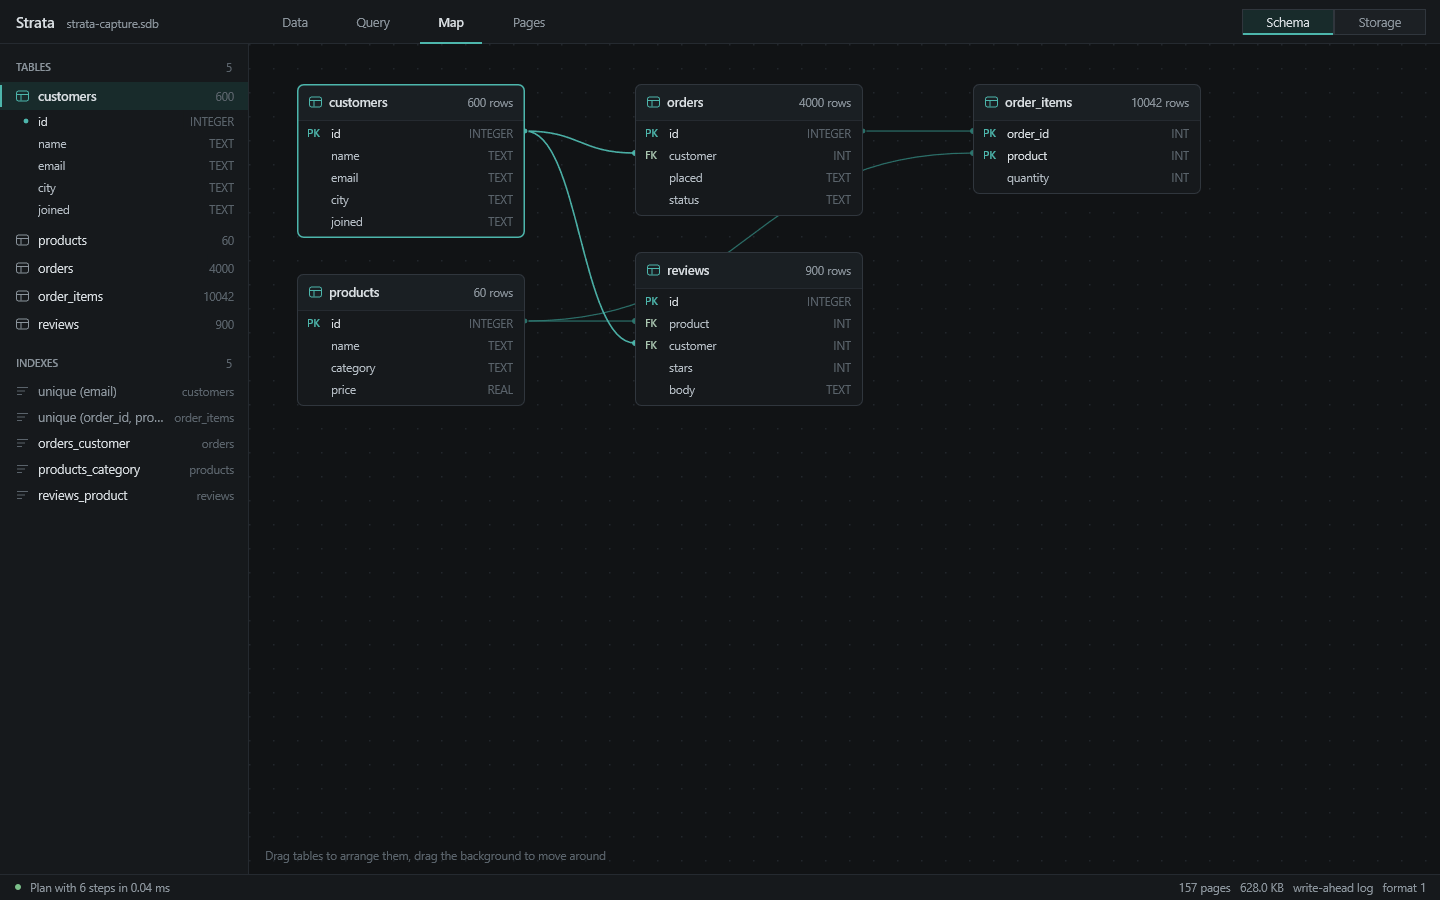
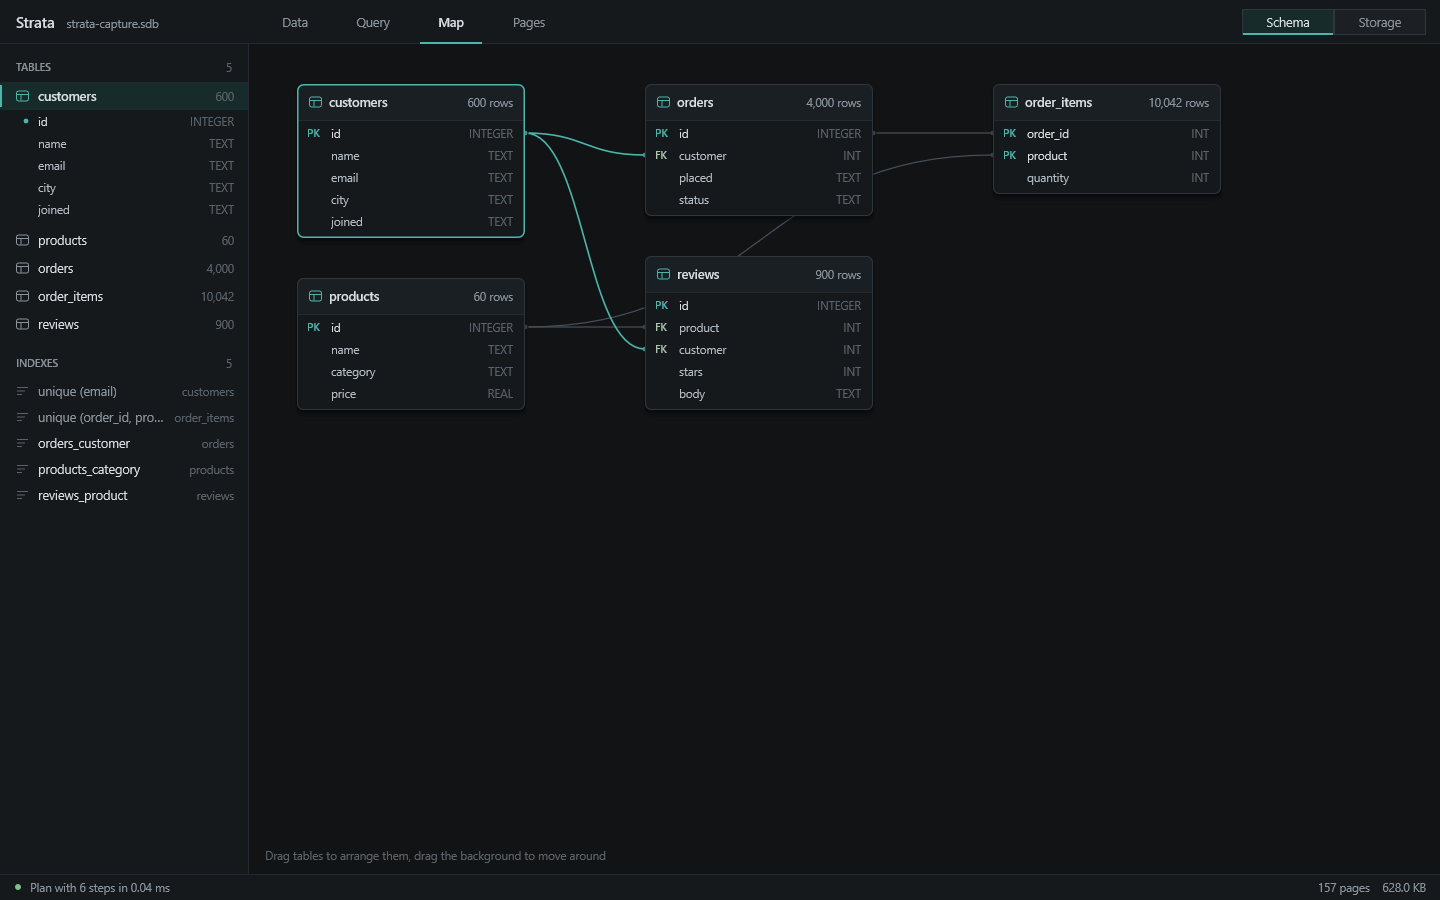
Scripted studio session in capture mode and fixes for stale plans and reloads

diff --git a/src/studio/app/studio.cc b/src/studio/app/studio.cc
@@ -1,6 +1,7 @@
 #include "studio/app/studio.hh"
 #include "sql/print/print.hh"
 #include "base/file/file.hh"
+#include "base/console/console.hh"
 
 #include <windows.h>
 #include <shellapi.h>
@@ -18,6 +19,26 @@ namespace studio {
 			out.decimal ( bytes * 10 / ( 1024 * 1024 ), 10, 1 ).add ( " MB" );
 		else
 			out.decimal ( bytes * 100 / ( 1024ull * 1024 * 1024 ), 100, 2 ).add ( " GB" );
+
+	}
+
+	void grouped ( base::text& out, uint64_t value ) {
+
+		char digits [ 32 ];
+		uint32_t count = 0;
+
+		do {
+
+			if ( count && count % 4 == 3 )
+				digits [ count++ ] = ',';
+
+			digits [ count++ ] = static_cast < char > ( '0' + value % 10 );
+			value /= 10;
+
+		} while ( value );
+
+		while ( count )
+			out.add ( digits [ --count ] );
 
 	}
 
@@ -193,6 +214,18 @@ namespace studio {
 		message.add ( "Opened " ).add ( app.file_name );
 		set_status ( app, message.value ( ), false );
 
+		if ( app.window ) {
+
+			base::text title;
+			wchar_t wide [ FILE_PATH_ROOM ];
+
+			title.add ( app.file_name ).add ( " \xE2\x80\x94 Strata Studio" );
+
+			if ( MultiByteToWideChar ( CP_UTF8, 0, title.value ( ), -1, wide, FILE_PATH_ROOM ) > 0 )
+				SetWindowTextW ( app.window, wide );
+
+		}
+
 		return true;
 
 	}
@@ -248,6 +281,8 @@ namespace studio {
 		sql.add ( body.value ( ), body.size );
 
 		uint32_t version = app.db->schema->version;
+		int64_t changes = app.db->total_changes;
+		bool was_open = app.db->in_transaction;
 		double started = now_ms ( app );
 		bool fine = false;
 
@@ -263,6 +298,10 @@ namespace studio {
 
 			clear_grid ( app.result_grid );
 			app.result_grid.id = id;
+			app.plan.memory.reset ( );
+			app.plan.rows = nullptr;
+			app.plan.count = 0;
+			app.plan.room = 0;
 
 			engine::query_sink sink = { &app.result_grid, grid_columns, grid_row };
 
@@ -339,7 +378,7 @@ namespace studio {
 
 		}
 
-		if ( version != app.db->schema->version || !explain ) {
+		if ( version != app.db->schema->version || changes != app.db->total_changes || app.db->in_transaction || was_open ) {
 
 			int32_t table = app.table;
 
@@ -605,13 +644,7 @@ namespace studio {
 
 	}
 
-	static void render ( studio_state& app ) {
-
-		if ( !ui::begin_frame ( app.draw ) )
-			return;
-
-		draw_frame ( app );
-		ui::end_frame ( app.draw );
+	static void finish_input ( studio_state& app ) {
 
 		input_state& input = app.input;
 
@@ -629,9 +662,22 @@ namespace studio {
 		if ( app.ui.redraw ) {
 
 			app.ui.redraw = false;
-			request_frame ( app );
+
+			if ( app.window )
+				request_frame ( app );
 
 		}
+
+	}
+
+	static void render ( studio_state& app ) {
+
+		if ( !ui::begin_frame ( app.draw ) )
+			return;
+
+		draw_frame ( app );
+		ui::end_frame ( app.draw );
+		finish_input ( app );
 
 	}
 
@@ -803,6 +849,17 @@ namespace studio {
 
 			case WM_ERASEBKGND:
 				return 1;
+
+			case WM_GETMINMAXINFO: {
+
+				MINMAXINFO* limits = reinterpret_cast < MINMAXINFO* > ( lparam );
+
+				limits->ptMinTrackSize.x = static_cast < LONG > ( 980 * scale );
+				limits->ptMinTrackSize.y = static_cast < LONG > ( 620 * scale );
+
+				return 0;
+
+			}
 
 			case WM_DROPFILES: {
 
@@ -1032,11 +1089,7 @@ namespace studio {
 
 			bool fine = ui::capture_frame ( app.draw, STUDIO_CAPTURE_WIDTH, STUDIO_CAPTURE_HEIGHT, path.value ( ), capture_draw, &app );
 
-			app.input.pressed = false;
-			app.input.released = false;
-			app.input.key_count = 0;
-			app.input.char_count = 0;
-			app.input.wheel = 0;
+			finish_input ( app );
 
 			if ( !fine )
 				return false;
@@ -1044,6 +1097,169 @@ namespace studio {
 		}
 
 		return true;
+
+	}
+
+	static void script_frame ( studio_state& app ) {
+
+		ui::capture_frame ( app.draw, STUDIO_CAPTURE_WIDTH, STUDIO_CAPTURE_HEIGHT, nullptr, capture_draw, &app );
+		finish_input ( app );
+
+	}
+
+	static void script_move ( studio_state& app, float x, float y ) {
+
+		app.input.x = x;
+		app.input.y = y;
+		script_frame ( app );
+
+	}
+
+	static void script_press ( studio_state& app, float x, float y ) {
+
+		app.input.x = x;
+		app.input.y = y;
+		app.input.pressed = true;
+		app.input.down = true;
+		script_frame ( app );
+
+	}
+
+	static void script_release ( studio_state& app ) {
+
+		app.input.released = true;
+		app.input.down = false;
+		script_frame ( app );
+
+	}
+
+	static void script_click ( studio_state& app, float x, float y ) {
+
+		script_press ( app, x, y );
+		script_release ( app );
+
+	}
+
+	static void script_key ( studio_state& app, uint32_t code, bool ctrl, bool shift = false ) {
+
+		app.input.ctrl = ctrl;
+		app.input.shift = shift;
+		app.input.keys [ 0 ] = code;
+		app.input.key_count = 1;
+		script_frame ( app );
+		app.input.ctrl = false;
+		app.input.shift = false;
+
+	}
+
+	static void script_type ( studio_state& app, const char* text ) {
+
+		for ( const char* at = text; *at; at++ ) {
+
+			app.input.chars [ app.input.char_count++ ] = static_cast < uint8_t > ( *at );
+
+			if ( app.input.char_count == INPUT_CHARS )
+				script_frame ( app );
+
+		}
+
+		script_frame ( app );
+
+	}
+
+	static void script_wheel ( studio_state& app, float x, float y, float amount ) {
+
+		app.input.x = x;
+		app.input.y = y;
+		app.input.wheel = amount;
+		script_frame ( app );
+
+	}
+
+	static bool script_shot ( studio_state& app, const char* folder, const char* name ) {
+
+		return capture_view ( app, folder, name );
+
+	}
+
+	static bool play_script ( studio_state& app, const char* folder ) {
+
+		bool fine = true;
+		auto step = [ & ] ( bool passed, const char* what ) {
+
+			if ( !passed && fine ) {
+
+				base::write ( what );
+				base::write ( " failed in the scripted session\n" );
+
+			}
+
+			fine = fine && passed;
+
+		};
+
+		app.input.x = -100;
+		app.input.y = -100;
+		script_click ( app, 373, 22 );
+		step ( app.view == VIEW_QUERY, "the Query tab opens" );
+		script_click ( app, 700, 200 );
+		script_key ( app, 'A', true );
+		script_type ( app, "SELECT city, count(*) AS people" );
+		script_key ( app, VK_RETURN, false );
+		script_type ( app, "FROM customers" );
+		script_key ( app, VK_RETURN, false );
+		script_type ( app, "GROUP BY city ORDER BY people DESC" );
+		script_key ( app, VK_RETURN, true );
+		step ( app.result == RESULT_GRID && app.result_grid.rows == 12, "typed SQL runs" );
+		fine = fine && script_shot ( app, folder, "script-query" );
+		script_key ( app, 'Z', true );
+		script_key ( app, 'Y', true );
+		script_key ( app, 'A', true );
+		script_type ( app, "SELEC broken FROM nowhere" );
+		script_key ( app, VK_F5, false );
+		step ( app.result == RESULT_MESSAGE && app.result_failed, "bad SQL reports an error" );
+		fine = fine && script_shot ( app, folder, "script-error" );
+		script_key ( app, 'A', true );
+		script_type ( app, "SELECT * FROM orders" );
+		script_key ( app, VK_RETURN, true );
+		step ( app.result_grid.rows == 4000, "all orders load" );
+		script_click ( app, 640, 420 );
+		script_key ( app, VK_DOWN, false );
+		script_key ( app, VK_DOWN, false );
+		script_wheel ( app, 700, 600, -6 );
+		script_press ( app, 700, 294 );
+		script_move ( app, 700, 220 );
+		script_release ( app );
+		fine = fine && script_shot ( app, folder, "script-grid" );
+		script_click ( app, 451, 22 );
+		script_click ( app, 1288, 22 );
+		script_press ( app, 400, 100 );
+		script_move ( app, 520, 520 );
+		script_move ( app, 640, 600 );
+		script_release ( app );
+		script_press ( app, 1000, 700 );
+		script_move ( app, 1040, 690 );
+		script_release ( app );
+		step ( app.map == MAP_SCHEMA, "the schema map shows" );
+		fine = fine && script_shot ( app, folder, "script-map" );
+		script_click ( app, 1380, 22 );
+		script_wheel ( app, 800, 500, -2 );
+		fine = fine && script_shot ( app, folder, "script-storage" );
+		script_click ( app, 529, 22 );
+		script_click ( app, 300, 100 );
+		script_wheel ( app, 1200, 600, -3 );
+		fine = fine && script_shot ( app, folder, "script-pages" );
+		script_click ( app, 295, 22 );
+		script_click ( app, 100, 124 );
+		script_press ( app, 248, 400 );
+		script_move ( app, 330, 400 );
+		script_release ( app );
+		script_key ( app, '2', true );
+		step ( app.view == VIEW_QUERY, "ctrl+2 switches views" );
+		script_key ( app, '1', true );
+		fine = fine && script_shot ( app, folder, "script-data" );
+
+		return fine;
 
 	}
 
@@ -1099,6 +1315,14 @@ namespace studio {
 		ensure_pages ( *app );
 		select_page ( *app, app->db->schema->tables [ app->table ].root );
 		fine = fine && capture_view ( *app, folder, "pages" );
+
+		if ( fine && !play_script ( *app, folder ) ) {
+
+			base::write ( "the scripted session failed\n" );
+			fine = false;
+
+		}
+
 		engine::close_database ( *app->db );
 		ui::stop_renderer ( app->draw );
 		base::erase_path ( path );

diff --git a/src/studio/views/chrome.cc b/src/studio/views/chrome.cc
@@ -149,7 +149,7 @@ namespace studio {
 			base::text rows;
 
 			if ( app.stats [ t ].known )
-				rows.number ( app.stats [ t ].rows );
+				grouped ( rows, app.stats [ t ].rows );
 
 			float rows_w = ui::measure ( draw, ui::FONT_SMALL, rows.value ( ), rows.size );
 
@@ -243,11 +243,11 @@ namespace studio {
 			uint32_t pages = app.db->pages.header.page_count;
 
 			if ( app.db->in_transaction )
-				right.add ( "transaction open   " );
+				right.add ( "transaction open    " );
 
-			right.number ( pages ).add ( pages == 1 ? " page   " : " pages   " );
+			grouped ( right, pages );
+			right.add ( pages == 1 ? " page    " : " pages    " );
 			size_text ( right, static_cast < uint64_t > ( pages ) * PAGE_SIZE );
-			right.add ( "   write-ahead log   format 1" );
 
 		}
 

diff --git a/src/studio/views/data_view.cc b/src/studio/views/data_view.cc
@@ -2,26 +2,6 @@
 
 namespace studio {
 
-	static void grouped ( base::text& out, uint64_t value ) {
-
-		char digits [ 32 ];
-		uint32_t count = 0;
-
-		do {
-
-			if ( count && count % 4 == 3 )
-				digits [ count++ ] = ',';
-
-			digits [ count++ ] = static_cast < char > ( '0' + value % 10 );
-			value /= 10;
-
-		} while ( value );
-
-		while ( count )
-			out.add ( digits [ --count ] );
-
-	}
-
 	static float section ( ui_context& ui, float x, float y, float w, const char* label ) {
 
 		ui::line ( *ui.draw, x, y + 0.5f, x + w, y + 0.5f, ui::rgb ( THEME_DIVIDER ) );
